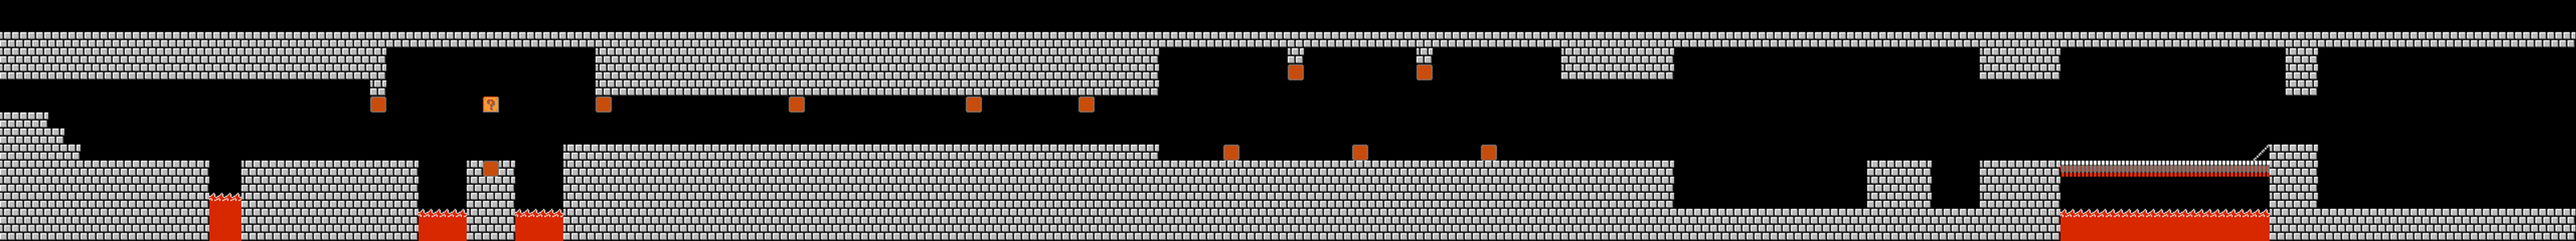
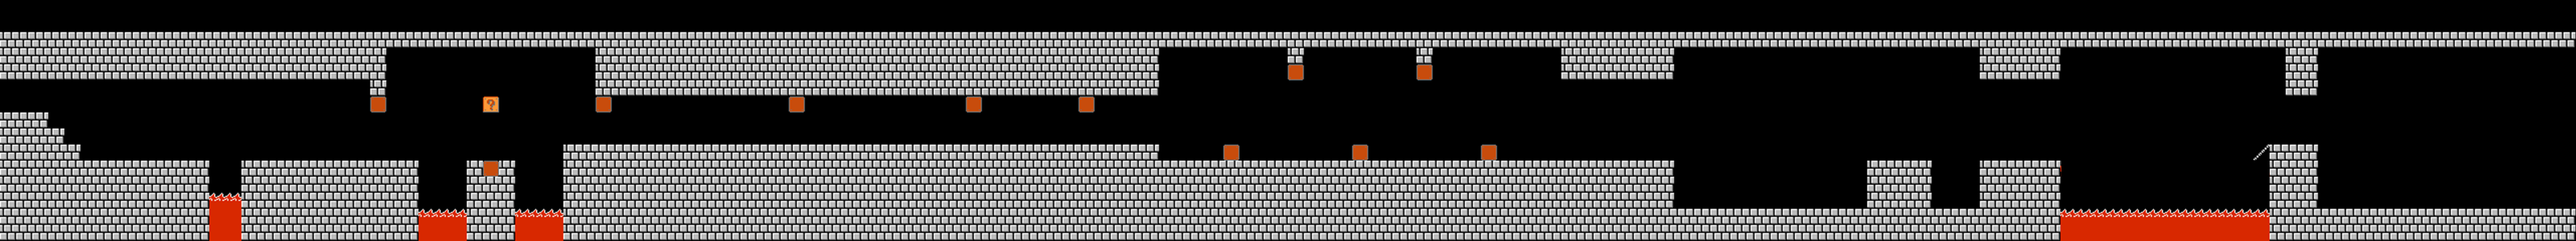
update Bridge Axe Koopa

Changed region(s): [[0.7811, 0.6562, 0.9061, 0.75]]

diff --git a/src/Object/Brick/Axe.cpp b/src/Object/Brick/Axe.cpp
@@ -2,6 +2,7 @@
 #include "Util/Image.hpp"
 #include "config.hpp"
 #include "GameManager.hpp"
+#include "Object/ImageObject.hpp"
 
 void MyAPP::Form::Object::Axe::behavior(void* data) {
 	PlayFrames();
@@ -21,6 +22,24 @@ void MyAPP::Form::Object::Axe::PlayFrames() noexcept {
 }
 
 void MyAPP::Form::Object::Axe::CheckCollision(void* data) noexcept {
+	using namespace MyAPP::Form::Object;
 	auto GM = static_cast<GameManager*>(data);
 	auto& FM = GM->GetFormManger();
+	auto mario = FM.GetFormObject<Mario>(FM.GetNowForm(), "Mario");
+	auto& imgs = FM.GetFormAndObject(FM.GetNowForm()).m_Images;
+	auto GetBriges = [&]() -> std::vector<std::shared_ptr<ImageObject>> {
+		std::vector<std::shared_ptr<ImageObject>> Briges;
+		std::copy_if(imgs.begin(), imgs.end(), std::back_inserter(Briges), [](auto& it) {
+			return it->MyType == ObjectType::Bridge;
+		});
+		return Briges;
+	};
+	if (inRange(mario->GetPosition(),mario->GetSize()) && enable) {
+		auto Briges = GetBriges();
+		for (auto& it : Briges) {
+			it->SetVisible(false);
+			it->collisionable = false;
+		}
+		enable = false;
+	}
 }

diff --git a/src/Object/Character/Koopa.cpp b/src/Object/Character/Koopa.cpp
@@ -1,13 +1,17 @@
 #include "Object/Character/Koopa.hpp"
 #include "config.hpp"
+#include <iostream>
 
 void MyAPP::Form::Object::Koopa::behavior(void* data) {
 	move();
 	comeDown();
 	CheckCollision(data);
+	checkPosition();
+	PlayFrames();
 }
 
 void MyAPP::Form::Object::Koopa::died() noexcept {
+	std::cout << "Koopa died" << std::endl;
 }
 
 void MyAPP::Form::Object::Koopa::move() noexcept {
@@ -20,4 +24,14 @@ void MyAPP::Form::Object::Koopa::checkPosition() noexcept {
 }
 
 void MyAPP::Form::Object::Koopa::CheckCollision(void* data) {
+}
+
+void MyAPP::Form::Object::Koopa::PlayFrames() noexcept {
+	imageChangeDelay++;
+	if (imageChangeDelay >= (FPS_CAP / 3)) {
+		imgIndex++;
+		imgIndex &= 1;
+		std::static_pointer_cast<Util::Image>(m_Drawable)->SetImage(GetFrame());
+		imageChangeDelay = 0;
+	}
 }

diff --git a/include/Object/Character/Koopa.hpp b/include/Object/Character/Koopa.hpp
@@ -3,9 +3,10 @@
 #define KOOPA_HPP
 #include "Character.hpp"
 #include "Interface/ICollisionable.hpp"
+#include "Interface/IFrames.hpp"
 
 namespace MyAPP::Form::Object {
-	class Koopa : public Character, Interface::ICollisionable {
+	class Koopa : public Character, Interface::ICollisionable,Interface::Iframes {
 	public:
 		Koopa(const std::string& name, int zindex)
 			: Character(name, *Frames, zindex) {
@@ -28,6 +29,11 @@ namespace MyAPP::Form::Object {
 		virtual void move() noexcept override;
 
 		static constexpr auto GetFrames() noexcept { return Frames; }
+
+		virtual std::string GetFrame() const noexcept {
+			return Frames[imgIndex];
+		}
+		virtual void PlayFrames() noexcept;
 		
 		private:
 		void checkPosition() noexcept;

diff --git a/include/EventCallBackFunc.hpp b/include/EventCallBackFunc.hpp
@@ -205,20 +205,6 @@ EVENTCALLCALLBACKFUN(moveEvent) {
 	else if (Util::Input::IsKeyDown(Util::Keycode::T)) {
 		mario->died();
 	}
-	else if (Util::Input::IsKeyDown(Util::Keycode::B)) {
-		auto GetBriges = [&]() -> std::vector<std::shared_ptr<Brick>> {
-			std::vector<std::shared_ptr<Brick>> Briges;
-			std::copy_if(block->begin(), block->end(), std::back_inserter(Briges), [](auto& it) {
-				return it->MyType == ObjectType::Bridge;
-			});
-			return Briges;
-		};
-		auto Briges = GetBriges();
-		for (auto& it : Briges) {
-			it->SetVisible(true);
-			it->collisionable = false;
-		}
-	}
 	if (opmode) {
 		if (Util::Input::IsKeyDown(Util::Keycode::W)) {
 			marioPos.y += mariosize.y;

diff --git a/include/FilePath.hpp b/include/FilePath.hpp
@@ -104,6 +104,8 @@ namespace MyAPP {
 
 		static constexpr inline auto BlabkBrick{ R"(imgs\super mario\blackBrick.png)" };
 
+		static constexpr inline auto BridgeBrick{ R"(imgs\super mario\Bridge.png)" };
+
 		// static constexpr auto QuestionBlockPath = "imgs/super mario/QuestionBlock/frame0.png";
 		// static constexpr auto EmptyBlockImagePath = "imgs/super mario/EmptyBlock.png";
 		// static constexpr auto BlueblockImagePath = /*"imgs/super mario/StairsBrick.png";*/ "imgs/super mario/Blueblock.png";

diff --git a/include/Object/Interface/IFrames.hpp b/include/Object/Interface/IFrames.hpp
@@ -4,17 +4,12 @@
 
 #include <string>
 
-namespace MyAPP {
-	namespace Form {
-		namespace Object {
-			namespace Interface {
-				struct Iframes {
-					virtual std::string GetFrame() const noexcept = 0;
-					virtual void PlayFrames() noexcept = 0;
-				};
-			}
-		}
-	}
+namespace MyAPP::Form:: Object:: Interface {
+	struct Iframes {
+		virtual std::string GetFrame() const noexcept = 0;
+		virtual void PlayFrames() noexcept = 0;
+	};
 }
+
 
 #endif // !IFRAMES_HPP

diff --git a/include/Object/Brick/Axe.hpp b/include/Object/Brick/Axe.hpp
@@ -55,7 +55,7 @@ namespace MyAPP::Form::Object {
 		/// </summary>
 		static constexpr inline char* const Frames[] = { "imgs/super mario/Axe/frame0.png", "imgs/super mario/Axe/frame1.png", "imgs/super mario/Axe/frame2.png", "imgs/super mario/Axe/frame3.png", "imgs/super mario/Axe/frame4.png", "imgs/super mario/Axe/frame5.png" };
 		int count{ 0 }, imgindex{ 0 };
-		bool play{ true };
+		bool play{ true }, enable{ true };
 	};
 }
 #endif

diff --git a/include/Object/Brick/Bridge.hpp b/include/Object/Brick/Bridge.hpp
@@ -15,10 +15,10 @@ namespace MyAPP::Form::Object {
 		explicit Bridge(const std::string& name,
 			const float zIndex = -10,
 			const glm::vec2& pivot = { 0, 0 })
-			: Brick(name, MyAPP::MyResourcesFilePath::BlabkBrick,
+			: Brick(name, MyAPP::MyResourcesFilePath::BridgeBrick,
 				  zIndex, pivot) {
 			MyType = ObjectType::Bridge;
-			m_Visible = false;
+			m_Visible = true;
 			collisionable = true;
 		}
 
